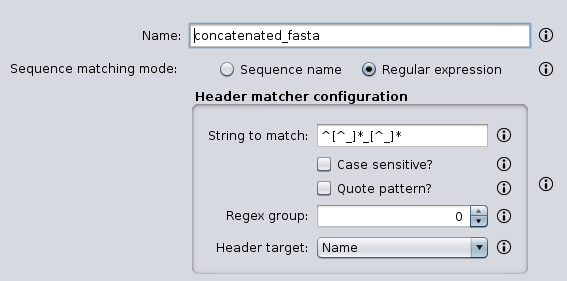
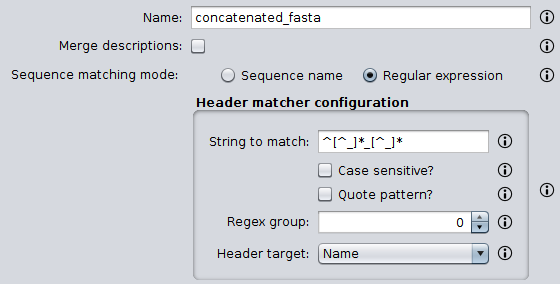
Allow adding sequence descripions to the concatenated sequences

Changed region(s): [[0.0911, 0.0, 1.0, 0.9964], [0.0, 0.2278, 0.3339, 0.2847], [0.9411, 0.1993, 1.0, 0.2847]]

diff --git a/seda/src/main/java/org/sing_group/seda/transformation/dataset/ConcatenateSequencesGroupDatasetTransformation.java b/seda/src/main/java/org/sing_group/seda/transformation/dataset/ConcatenateSequencesGroupDatasetTransformation.java
@@ -26,7 +26,10 @@ import java.util.LinkedList;
 import java.util.Map;
 import java.util.function.Function;
 
+import org.sing_group.seda.core.filtering.DefaultSedaStringJoiner;
+import org.sing_group.seda.core.filtering.EmptySedaStringJoiner;
 import org.sing_group.seda.core.filtering.HeaderMatcher;
+import org.sing_group.seda.core.filtering.SedaStringJoiner;
 import org.sing_group.seda.datatype.DatatypeFactory;
 import org.sing_group.seda.datatype.Sequence;
 import org.sing_group.seda.datatype.SequenceBuilder;
@@ -42,40 +45,55 @@ public class ConcatenateSequencesGroupDatasetTransformation implements Sequences
   private final SequenceBuilder sequenceBuilder;
   private final String mergeName;
   private final HeaderMatcher headerMatcher;
+  private final boolean mergeDescriptions;
+  private final SedaStringJoiner descriptionsJoiner;
 
-  public ConcatenateSequencesGroupDatasetTransformation(String mergeName, HeaderMatcher headerMatcher) {
-    this(DatatypeFactory.getDefaultDatatypeFactory(), mergeName, headerMatcher);
+  public ConcatenateSequencesGroupDatasetTransformation(
+    String mergeName, HeaderMatcher headerMatcher, boolean mergeDescriptions
+  ) {
+    this(DatatypeFactory.getDefaultDatatypeFactory(), mergeName, headerMatcher, mergeDescriptions);
   }
 
-  public ConcatenateSequencesGroupDatasetTransformation(DatatypeFactory factory, String mergeName,
-      HeaderMatcher headerMatcher
+  public ConcatenateSequencesGroupDatasetTransformation(
+    DatatypeFactory factory, String mergeName,
+    HeaderMatcher headerMatcher, boolean mergeDescriptions
   ) {
     this.builder = factory::newSequencesGroupDataset;
     this.groupBuilder = factory::newSequencesGroup;
     this.sequenceBuilder = factory::newSequence;
     this.mergeName = mergeName;
     this.headerMatcher = headerMatcher;
+    this.mergeDescriptions = mergeDescriptions;
+    if(this.mergeDescriptions) {
+      this.descriptionsJoiner = new DefaultSedaStringJoiner();
+    } else {
+      this.descriptionsJoiner = new EmptySedaStringJoiner();
+    }
   }
 
   @Override
   public SequencesGroupDataset transform(SequencesGroupDataset dataset) {
     Map<String, Sequence> concatenatedSequences = new HashMap<>();
-    
+
     dataset.getSequencesGroups().forEach(
       g -> {
         g.getSequences().forEach(s -> {
           String headerMatch = getHeaderMatch(s);
-          if(concatenatedSequences.containsKey(headerMatch)) {
+          if (concatenatedSequences.containsKey(headerMatch)) {
             Sequence toMerge = concatenatedSequences.get(headerMatch);
+            String mergedDescription = descriptionsJoiner.merge(toMerge.getDescription(), s.getDescription());
+
             concatenatedSequences.put(
               headerMatch,
-              this.sequenceBuilder.of(headerMatch, "", toMerge.getChain() + s.getChain(), toMerge.getProperties())
+              this.sequenceBuilder
+                .of(headerMatch, mergedDescription, toMerge.getChain() + s.getChain(), toMerge.getProperties())
             );
           } else {
-              concatenatedSequences.put(
-                headerMatch,
-                this.sequenceBuilder.of(headerMatch, "", s.getChain(), s.getProperties())
-              );
+            String mergedDescription = descriptionsJoiner.merge("", s.getDescription());
+            concatenatedSequences.put(
+              headerMatch,
+              this.sequenceBuilder.of(headerMatch, mergedDescription, s.getChain(), s.getProperties())
+            );
           }
         });
       }
@@ -87,7 +105,7 @@ public class ConcatenateSequencesGroupDatasetTransformation implements Sequences
       }
     );
   }
-
+  
   private String getHeaderMatch(Sequence s) {
     return this.headerMatcher.match(s).orElse(UNMATCHED_SEQUENCE);
   }

diff --git a/seda/src/main/java/org/sing_group/seda/gui/concatenate/ConcatenateSequencesConfigurationPanel.java b/seda/src/main/java/org/sing_group/seda/gui/concatenate/ConcatenateSequencesConfigurationPanel.java
@@ -38,6 +38,7 @@ import java.util.List;
 import java.util.Optional;
 
 import javax.swing.BoxLayout;
+import javax.swing.JCheckBox;
 import javax.swing.JPanel;
 import javax.swing.event.DocumentEvent;
 
@@ -70,6 +71,7 @@ public class ConcatenateSequencesConfigurationPanel extends JPanel {
   private ReformatFastaConfigurationPanel reformatPanel;
 
   private JXTextField nameTextField;
+  private JCheckBox mergeDescriptions;
   private RadioButtonsPanel<FilterType> filterTypeRbtn;
   private RegexHeaderMatcherConfigurationPanel regexHeaderMatcherConfigurationPanel;
 
@@ -99,8 +101,9 @@ public class ConcatenateSequencesConfigurationPanel extends JPanel {
   private InputParameter[] getParameters() {
     List<InputParameter> parameters = new LinkedList<>();
     parameters.add(getMergeNameParameter());
+    parameters.add(getMergeDescriptionsParameter());
     parameters.add(getFilterTypeParameter());
-    parameters.add(getStringParameter());
+    parameters.add(getHeaderMatcherConfigurationParameter());
 
     return parameters.toArray(new InputParameter[parameters.size()]);
   }
@@ -128,6 +131,20 @@ public class ConcatenateSequencesConfigurationPanel extends JPanel {
     this.transformationProvider.setMergeName(this.nameTextField.getText());
   }
 
+  private InputParameter getMergeDescriptionsParameter() {
+    this.mergeDescriptions = new JCheckBox();
+    this.mergeDescriptions.addItemListener(this::mergeDescriptionsChanged);
+    
+    return new InputParameter(
+      "Merge descriptions:", this.mergeDescriptions,
+      "Whether the sequence descriptions must be added to the concatenated sequences or not"
+    );
+  }
+  
+  private void mergeDescriptionsChanged(ItemEvent event) {
+    this.transformationProvider.setMergeDescriptions(this.mergeDescriptions.isSelected());
+  }
+
   private InputParameter getFilterTypeParameter() {
     this.filterTypeRbtn = new RadioButtonsPanel<>(FilterType.values(), 1, 0);
     this.filterTypeRbtn.addItemListener(this::filterTypeChanged);
@@ -142,7 +159,7 @@ public class ConcatenateSequencesConfigurationPanel extends JPanel {
     }
   }
 
-  private InputParameter getStringParameter() {
+  private InputParameter getHeaderMatcherConfigurationParameter() {
     this.regexHeaderMatcherConfigurationPanel = new RegexHeaderMatcherConfigurationPanel();
     this.regexHeaderMatcherConfigurationPanel.setBorder(createTitledBorder("Header matcher configuration"));
     this.checkStringComponent();
@@ -208,6 +225,7 @@ public class ConcatenateSequencesConfigurationPanel extends JPanel {
     this.transformationProvider = transformationProvider;
 
     this.nameTextField.setText(this.transformationProvider.getMergeName());
+    this.mergeDescriptions.setSelected(this.transformationProvider.isMergeDescriptions());
     if (this.transformationProvider.getHeaderMatcher() instanceof SequenceNameHeaderMatcher) {
       this.filterTypeRbtn.setSelectedItem(FilterType.SEQUENCE_NAME);
     } else {

diff --git a/seda/src/test/java/org/sing_group/seda/transformation/dataset/ConcatenateSequencesGroupDatasetTransformationTest.java b/seda/src/test/java/org/sing_group/seda/transformation/dataset/ConcatenateSequencesGroupDatasetTransformationTest.java
@@ -65,6 +65,13 @@ public class ConcatenateSequencesGroupDatasetTransformationTest {
           of("Homo_Sapiens", "", "AA", PROPERTIES)
       )
   );
+  
+  private static final SequencesGroupDataset DATASET_1_MERGED_WITH_DESCRIPTIONS = of(
+    of("merged_by_name", emptyMap(), 
+      of("Mus_Musculus", "[[Sequence 1.2], [Sequence 2.2]]", "TT", PROPERTIES), 
+      of("Homo_Sapiens", "[[Sequence 1.1], [Sequence 2.1]]", "AA", PROPERTIES)
+      )
+    );
 
   private static final SequencesGroupDataset DATASET_2 = of(
       of("Group_1", emptyMap(), 
@@ -91,9 +98,10 @@ public class ConcatenateSequencesGroupDatasetTransformationTest {
   public static Collection<Object[]> parameters() {
     return asList(
       new Object[][] {
-        { DATASET_1, DATASET_1_MERGED, "merged_by_name", new SequenceNameHeaderMatcher() },
+        { DATASET_1, DATASET_1_MERGED, "merged_by_name", new SequenceNameHeaderMatcher(), false },
+        { DATASET_1, DATASET_1_MERGED_WITH_DESCRIPTIONS, "merged_by_name", new SequenceNameHeaderMatcher(), true },
         { DATASET_2, DATASET_2_MERGED, "merged_by_regex_matcher", 
-          new RegexHeaderMatcher("^[^_]*_[^_]*", HeaderTarget.NAME, new RegexConfiguration(true, 0, false)) 
+          new RegexHeaderMatcher("^[^_]*_[^_]*", HeaderTarget.NAME, new RegexConfiguration(true, 0, false)), false
         },
       }
     );
@@ -103,19 +111,21 @@ public class ConcatenateSequencesGroupDatasetTransformationTest {
   private SequencesGroupDataset expectedDataset;
   private String mergeName;
   private HeaderMatcher headerMatcher;
+  private boolean mergeDescriptions;
 
   public ConcatenateSequencesGroupDatasetTransformationTest(
-    SequencesGroupDataset group, SequencesGroupDataset expectedDataset, String mergeName, HeaderMatcher headerMatcher
+    SequencesGroupDataset group, SequencesGroupDataset expectedDataset, String mergeName, HeaderMatcher headerMatcher, boolean mergeDescriptions
   ) {
     this.dataset = group;
     this.expectedDataset = expectedDataset;
     this.mergeName = mergeName;
     this.headerMatcher = headerMatcher;
+    this.mergeDescriptions = mergeDescriptions;
   }
 
   @Test
   public void translateSequences() {
-    ConcatenateSequencesGroupDatasetTransformation transformer = new ConcatenateSequencesGroupDatasetTransformation(mergeName, headerMatcher);
+    ConcatenateSequencesGroupDatasetTransformation transformer = new ConcatenateSequencesGroupDatasetTransformation(mergeName, headerMatcher, mergeDescriptions);
     SequencesGroupDataset transformedDataset = transformer.transform(this.dataset);
 
     assertThat(transformedDataset, hasEqualSequenceGroups(expectedDataset));

diff --git a/seda/src/main/java/org/sing_group/seda/gui/concatenate/ConcatenateSequencesTransformationProvider.java b/seda/src/main/java/org/sing_group/seda/gui/concatenate/ConcatenateSequencesTransformationProvider.java
@@ -23,6 +23,7 @@ package org.sing_group.seda.gui.concatenate;
 
 import static org.sing_group.seda.gui.concatenate.ConcatenateSequencesTransformationChangeType.HEADER_MATCHER;
 import static org.sing_group.seda.gui.concatenate.ConcatenateSequencesTransformationChangeType.MERGE_NAME_CHANGED;
+import static org.sing_group.seda.gui.concatenate.ConcatenateSequencesTransformationChangeType.MERGE_DESCRIPTIONS_CHANGED;
 
 import javax.xml.bind.annotation.XmlAnyElement;
 import javax.xml.bind.annotation.XmlElement;
@@ -41,8 +42,12 @@ import org.sing_group.seda.transformation.dataset.SequencesGroupDatasetTransform
 public class ConcatenateSequencesTransformationProvider extends AbstractTransformationProvider {
   @XmlElement
   private String mergeName;
+
   @XmlAnyElement(lax = true)
   private HeaderMatcher headerMatcher;
+
+  @XmlElement
+  private boolean mergeDescriptions;
 
   private ReformatFastaTransformationProvider reformatFastaTransformationProvider;
 
@@ -61,7 +66,7 @@ public class ConcatenateSequencesTransformationProvider extends AbstractTransfor
   @Override
   public SequencesGroupDatasetTransformation getTransformation(DatatypeFactory factory) {
     return SequencesGroupDatasetTransformation.concat(
-      new ConcatenateSequencesGroupDatasetTransformation(factory, getMergeName(), getHeaderMatcher()),
+      new ConcatenateSequencesGroupDatasetTransformation(factory, getMergeName(), getHeaderMatcher(), isMergeDescriptions()),
       this.reformatFastaTransformationProvider.getTransformation(factory)
     );
   }
@@ -88,6 +93,16 @@ public class ConcatenateSequencesTransformationProvider extends AbstractTransfor
 
   public String getMergeName() {
     return this.mergeName;
+  }
+
+  public void setMergeDescriptions(boolean mergeDescriptions) {
+    boolean oldValue = this.mergeDescriptions;
+    this.mergeDescriptions = mergeDescriptions;
+    this.fireTransformationsConfigurationModelEvent(MERGE_DESCRIPTIONS_CHANGED, oldValue, this.mergeDescriptions);
+  }
+
+  public boolean isMergeDescriptions() {
+    return mergeDescriptions;
   }
 
   public boolean isValidConfiguration() {

diff --git a/seda/src/main/java/org/sing_group/seda/core/filtering/DefaultSedaStringJoiner.java b/seda/src/main/java/org/sing_group/seda/core/filtering/DefaultSedaStringJoiner.java
@@ -1,0 +1,27 @@
+package org.sing_group.seda.core.filtering;
+
+public class DefaultSedaStringJoiner implements SedaStringJoiner {
+
+  private final String delimiter;
+  private final String prefix;
+  private final String suffix;
+
+  public DefaultSedaStringJoiner() {
+    this(", ", "[", "]");
+  }
+
+  public DefaultSedaStringJoiner(String delimiter, String prefix, String suffix) {
+    this.delimiter = delimiter;
+    this.prefix = prefix;
+    this.suffix = suffix;
+  }
+
+  @Override
+  public String merge(String string, String part) {
+    if (!string.endsWith(suffix)) {
+      return prefix + string + (string.isEmpty() ? "" : delimiter) + part + suffix;
+    } else {
+      return string.replaceAll(suffix + "$", delimiter + part + suffix);
+    }
+  }
+}

diff --git a/seda-plugin-splign-compart/src/main/java/org/sing_group/seda/splign/execution/SplignCompartPipeline.java b/seda-plugin-splign-compart/src/main/java/org/sing_group/seda/splign/execution/SplignCompartPipeline.java
@@ -277,7 +277,7 @@ public class SplignCompartPipeline {
 
     if (concatenateExons) {
       ConcatenateSequencesGroupDatasetTransformation concatenate =
-        new ConcatenateSequencesGroupDatasetTransformation("Concatenated", new SequenceNameHeaderMatcher());
+        new ConcatenateSequencesGroupDatasetTransformation("Concatenated", new SequenceNameHeaderMatcher(), false);
 
       inputFastaSequencesGroup =
         concatenate.transform(this.factory.newSequencesGroupDataset(inputFastaSequencesGroup)).getSequencesGroups().findFirst().get();

diff --git a/seda-plugin-sapp/src/main/java/org/sing_group/seda/sapp/execution/SappAnnotationPipeline.java b/seda-plugin-sapp/src/main/java/org/sing_group/seda/sapp/execution/SappAnnotationPipeline.java
@@ -145,7 +145,7 @@ public class SappAnnotationPipeline {
     SequencesGroupDataset dataset =
       SequencesGroupDatasetTransformation.concat(
         new ConcatenateSequencesGroupDatasetTransformation(
-          "concatenaded", new SequenceNameHeaderMatcher()
+          "concatenaded", new SequenceNameHeaderMatcher(), false
         ),
         new ComposedSequencesGroupDatasetTransformation(
           new ComposedSequencesGroupTransformation(

diff --git a/seda/src/main/java/org/sing_group/seda/gui/concatenate/ConcatenateSequencesTransformationChangeType.java b/seda/src/main/java/org/sing_group/seda/gui/concatenate/ConcatenateSequencesTransformationChangeType.java
@@ -24,5 +24,5 @@ package org.sing_group.seda.gui.concatenate;
 import org.sing_group.seda.plugin.spi.TransformationChangeType;
 
 public enum ConcatenateSequencesTransformationChangeType implements TransformationChangeType {
-  HEADER_MATCHER, MERGE_NAME_CHANGED
+  HEADER_MATCHER, MERGE_NAME_CHANGED, MERGE_DESCRIPTIONS_CHANGED
 }

diff --git a/seda/src/main/java/org/sing_group/seda/core/filtering/EmptySedaStringJoiner.java b/seda/src/main/java/org/sing_group/seda/core/filtering/EmptySedaStringJoiner.java
@@ -1,0 +1,9 @@
+package org.sing_group.seda.core.filtering;
+
+public class EmptySedaStringJoiner implements SedaStringJoiner {
+
+  @Override
+  public String merge(String string, String part) {
+    return "";
+  }
+}

diff --git a/seda/src/main/java/org/sing_group/seda/core/filtering/SedaStringJoiner.java b/seda/src/main/java/org/sing_group/seda/core/filtering/SedaStringJoiner.java
@@ -1,0 +1,6 @@
+package org.sing_group.seda.core.filtering;
+
+public interface SedaStringJoiner {
+
+  public String merge(String string, String part);
+}

diff --git a/seda-docs/source/operations.rst b/seda-docs/source/operations.rst
@@ -34,7 +34,9 @@ The configuration panel also allows to choose:
 Concatenate sequences
 ---------------------
 
-This operation allows all the selected input FASTA files to be merged into a single output FASTA by concatenating equivalent sequences. The *‘Name’* parameter defines the name for the output file. The *‘Sequence matching mode‘* parameter defines how sequence headers are processed in order to match those equivalent sequences that should be concatenated:
+This operation allows all the selected input FASTA files to be merged into a single output FASTA by concatenating equivalent sequences. The *‘Name’* parameter defines the name for the output file and the *‘Merge descriptions’* parameter specifies whether the sequence descriptions must be added to the concatenated sequences or not.
+
+The *‘Sequence matching mode‘* parameter defines how sequence headers are processed in order to match those equivalent sequences that should be concatenated:
 
 - *'Sequence name'* means that the sequences are "concatenated if they have the same sequence names (identifiers).
 - *'Regular expression'* means sequences are concatenated by matching headers using the configuration specified in the *Header matcher configuration* panel.
@@ -61,18 +63,18 @@ Input 1:
 
 .. code-block:: console
 
- >Homo_sapiens
+ >Homo_sapiens Part_1
  AAAATTTT
- >Mus_musculus
+ >Mus_musculus Part_1
  ACTGACTG
 
 Input 2:
 
 .. code-block:: console
 
- >Homo_sapiens
+ >Homo_sapiens Part_2
  CCCCGGGG
- >Mus_musculus
+ >Mus_musculus Part_2
  GTCAGTCA
 
 Output:
@@ -82,6 +84,15 @@ Output:
  >Homo_sapiens
  AAAATTTTCCCCGGGG
  >Mus_musculus
+ ACTGACTGGTCAGTCA
+
+If the *‘Merge descriptions’* parameter is selected, then the sequence descriptions (*Part_1* and *Part_2* in this example) are added to the output:
+
+.. code-block:: console
+
+ >Homo_sapiens [Part_1, Part_2]
+ AAAATTTTCCCCGGGG
+ >Mus_musculus [Part_1, Part_2]
  ACTGACTGGTCAGTCA
 
 On the other hand the *'Regular expression'* matching mode allows more complex concatenations. For instance, it can be used in those scenarios where sequences from two or more species are mixed in several FASTA files and one FASTA file containing the equivalent sequences is wanted. Consider the input FASTA files below that contains sequences from three species: *Homo sapiens*, *Gallus gallus*, and *Mus musculus*. When it is processed using the configuration below, one output FASTA file is obtained. Basically, the regular expression *^[^_]*_[^_]** is able to extract the common species names from the headers so that sequences are concatenated based in them.
